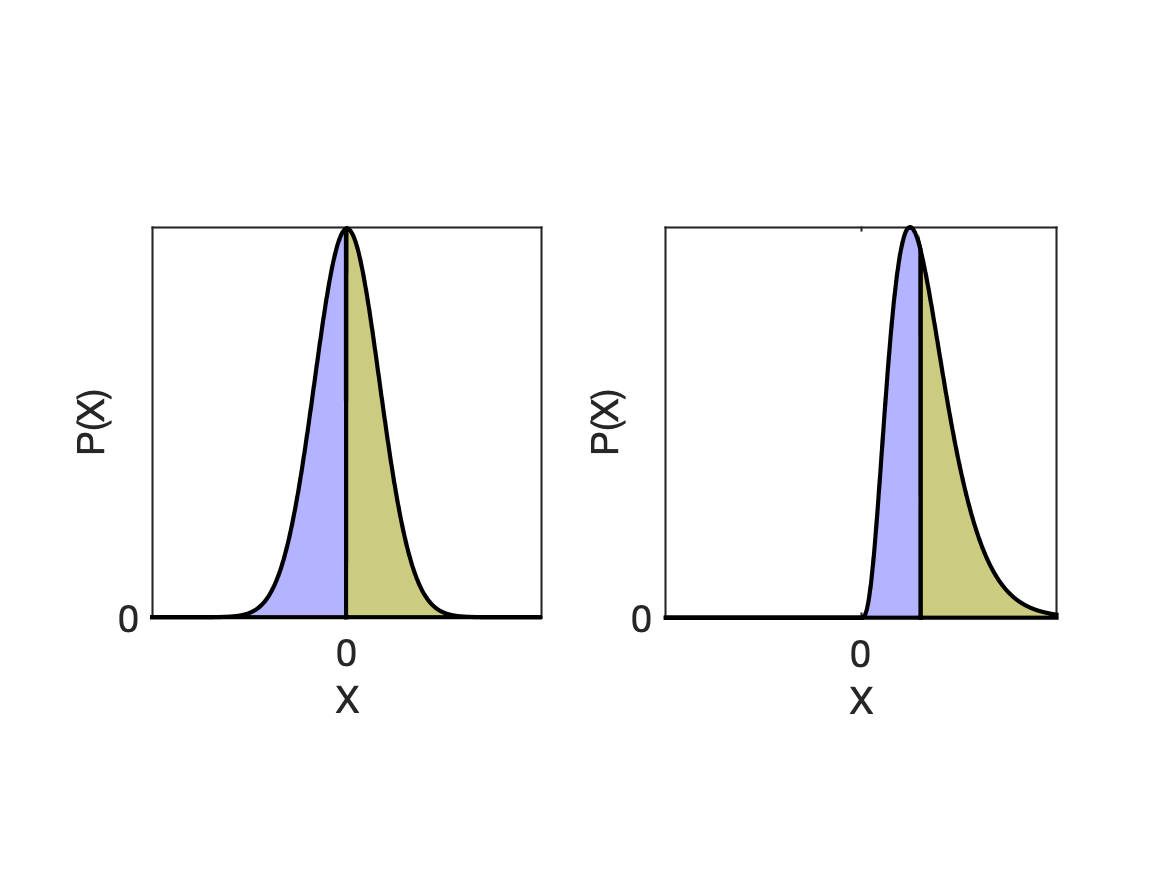
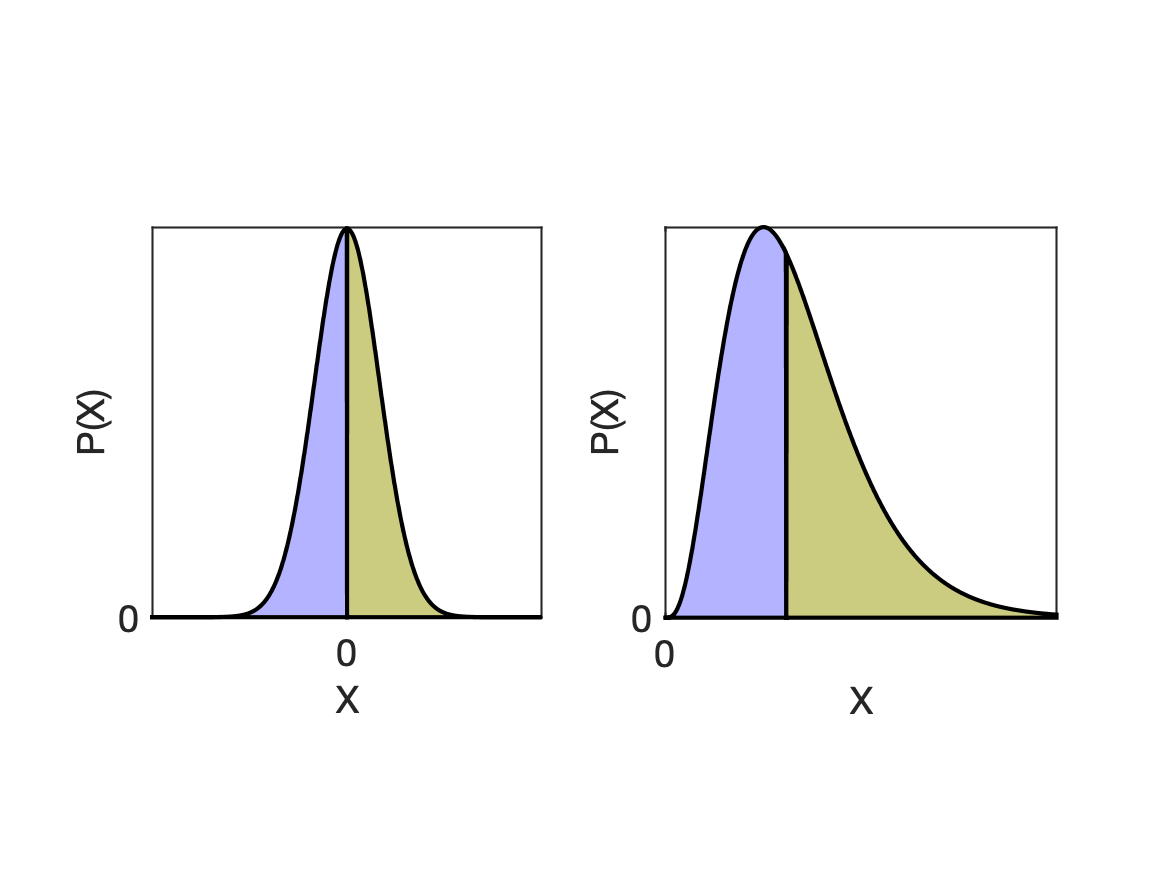
Add files via upload

diff --git a/illusofquantiles.m b/illusofquantiles.m
@@ -1,0 +1,111 @@
+function illusofquantiles
+
+clear all;
+close all;
+
+fs = 18;
+
+xlim = 6;
+
+x = linspace(-xlim,xlim,1000);
+
+Pnormal = normpdf( x, 0, 1 );
+
+Pgamma = gampdf( x, 4, 0.5 );
+
+
+Pbroad  = normpdf( x, 0, 3.0 );
+
+cmix    = 0.5;
+
+Pplatykurtic = cmix * Pnormal + cmix * Pbroad;
+
+Nsample = 10000;
+
+Snormal = normrnd( 0, 1, 1, Nsample );
+Sgamma  = gamrnd( 4, 0.5, 1, Nsample );
+
+Splaty  = [ normrnd( 0, 3, Nsample/2 ), normrnd( 0, 1, Nsample/2 )];
+
+
+med_normal = quantile( Snormal, 0.5 );
+med_gamma  = quantile( Sgamma, 0.5 );
+med_platy  = quantile( Splaty, 0.5 );
+
+figure;
+subplot(1,2,1)
+hold on;
+fill( [-xlim, x(x<med_normal), med_normal], [0, Pnormal(x<med_normal), 0], [0.7, 0.7, 1.0], 'LineWidth', 2 );
+fill( [med_normal, x(x>=med_normal), xlim], [0, Pnormal(x>=med_normal), 0], [0.8, 0.8, 0.5], 'LineWidth', 2 );
+hold off
+set(gca, 'PlotBoxAspectRatio', [1,1,1], 'Box', 'on', 'LineWidth', 1, 'XTick', [0], 'YTick', [0], 'FontSize', fs );
+
+xlabel( 'X', 'FontSize', fs );
+ylabel( 'P(X)', 'FontSize', fs );
+
+
+subplot(1,2,2);
+hold on;
+fill( [-xlim, x(x<med_gamma), med_gamma], [0, Pgamma(x<med_gamma), 0], [0.7, 0.7, 1.0], 'LineWidth', 2 );
+fill( [med_gamma, x(x>=med_gamma), xlim], [0, Pgamma(x>=med_gamma), 0], [0.8, 0.8, 0.5], 'LineWidth', 2 );
+
+hold off
+set(gca, 'PlotBoxAspectRatio', [1,1,1], 'Box', 'on', 'LineWidth', 1, 'XTick', [0], 'YTick', [0], 'XLim', [0, xlim], 'FontSize', fs );
+
+xlabel( 'X', 'FontSize', fs );
+ylabel( 'P(X)', 'FontSize', fs );
+
+print('illumedian', '-painters', '-dpng');
+
+
+q_normal = quantile( Snormal, (0:4)/4 );
+q_gamma  = quantile( Sgamma, (0:4)/4 );
+q_platy  = quantile( Splaty, (0:4)/4 );
+
+
+
+figure;
+
+clrmap = colormap('jet');
+
+subplot(1,2,1)
+hold on;
+
+for i = 1 : 4
+    ix = find( q_normal(i) <= x & x < q_normal(i+1) );   
+    fill( [x(ix(1)), x(ix), x(ix(end))], [0, Pnormal(ix), 0], clrmap(i*64,:), 'LineWidth', 1 );
+end
+
+plot( x, Pnormal, 'k', 'LineWidth', 2 );
+hold off
+set(gca, 'PlotBoxAspectRatio', [1,1,1], 'Box', 'on', 'LineWidth', 1, 'XTick', [0], 'YTick', [0], 'FontSize', fs );
+
+xlabel( 'X', 'FontSize', fs );
+ylabel( 'P(X)', 'FontSize', fs );
+
+
+subplot(1,2,2);
+hold on;
+for i = 1 : 4
+    ix = find( q_gamma(i) <= x & x < q_gamma(i+1) );   
+    fill( [x(ix(1)), x(ix), x(ix(end))], [0, Pgamma(ix), 0], clrmap(i*64,:), 'LineWidth', 1 );
+end
+
+plot( x, Pgamma, 'k', 'LineWidth', 2 );
+hold off
+set(gca, 'PlotBoxAspectRatio', [1,1,1], 'Box', 'on', 'LineWidth', 1, 'XTick', [0], 'YTick', [0], 'XLim', [0,xlim], 'FontSize', fs );
+
+xlabel( 'X', 'FontSize', fs );
+ylabel( 'P(X)', 'FontSize', fs );
+
+print('illuquartiles', '-painters', '-dpng');
+
+
+
+
+
+
+
+
+
+return;

diff --git a/illusofmeanmedianmode.m b/illusofmeanmedianmode.m
@@ -1,0 +1,50 @@
+function illusofmeanmedianmode
+
+clear all;
+close all;
+
+fs   = 18;
+
+xlim = 6;
+
+x    = linspace(0,xlim,1000);
+
+Pgamma     = gampdf( x, 4, 0.5 );
+
+Nsample    = 10000;
+
+Sgamma     = gamrnd( 4, 0.5, 1, Nsample );
+
+med_gamma  = quantile( Sgamma, 0.5 );
+
+mean_gamma = mean( Sgamma );
+
+Pmax       = max(Pgamma);
+
+mode_gamma = x( Pgamma==Pmax );
+
+
+
+figure;
+hold on;
+fill( [x(1), x, x(end)], [0, Pgamma, 0], [1.0, 0.8, 0.0], 'LineWidth', 2 );
+plot( med_gamma*[1,1], 0.94 * Pmax*[0,1], 'k', 'LineWidth', 1 );
+plot( mean_gamma*[1,1], 0.88 * Pmax*[0,1], 'k', 'LineWidth', 1 );
+plot( mode_gamma*[1,1], Pmax*[0,1], 'k', 'LineWidth', 1 );
+hold off
+set(gca, 'PlotBoxAspectRatio', [2,1,1], 'Box', 'on', 'LineWidth', 1, 'XTick', [0], 'YTick', [0], 'YLim', Pmax*[0,1.2], 'FontSize', fs );
+xlabel( 'X', 'FontSize', fs );
+ylabel( 'P(X)', 'FontSize', fs );
+
+text( mean_gamma, 0.95 * Pmax, 'mean', 'FontSize', fs );
+
+text( med_gamma, 1.05 * Pmax, 'median', 'FontSize', fs );
+
+text( mode_gamma, 1.15 * Pmax, 'mode', 'FontSize', fs );
+
+print('illumeanmedianmode', '-painters', '-dpng');
+
+
+
+
+return;
